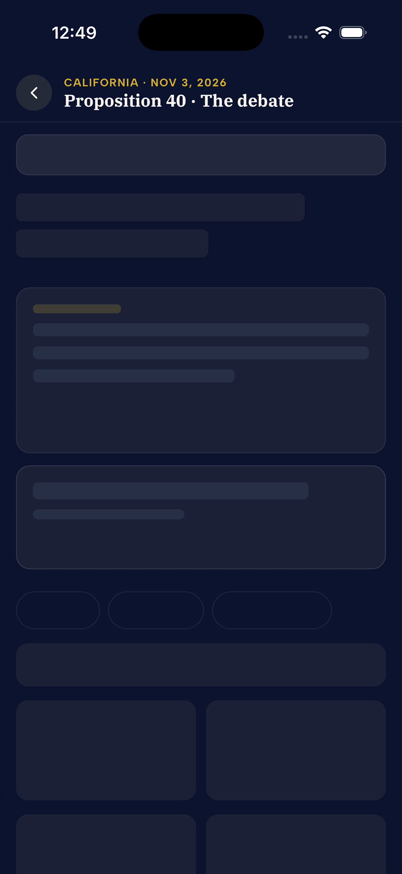
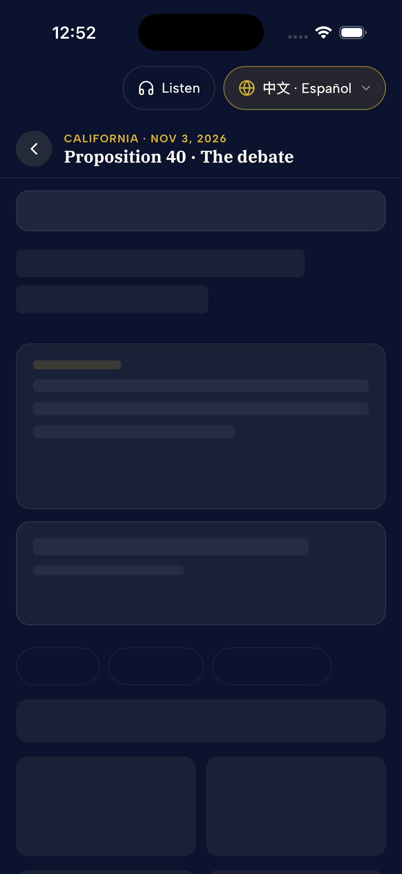
Record integrated ballot loading verification

diff --git a/docs/evidence/measure-loading/README.md b/docs/evidence/measure-loading/README.md
@@ -8,8 +8,13 @@ Captured on October 17, 2026 in the Expo development build on an isolated iPhone
 
 The header stays visible while the WebView mounts behind the native skeleton. The body is revealed after stylesheet loading, font layout, and a painted frame. This is an atomic reader reveal, not streaming per-card data. Placeholders reserve typical summary and featured-question heights; content-dependent heights can still differ.
 
-The recording includes iOS's rounded push transition. A 60 fps corner-pixel comparison found white corners in 10 of 104 frames before setting the navigation container background; the final capture had none in 87 frames. The GIF is a 30 fps derivative of that capture. Back navigation returned to the guide.
+The recording includes iOS's rounded push transition. A 60 fps corner-pixel comparison found white corners in 10 of 104 frames before setting the navigation container background; the final capture had none in 87 frames. The GIF is a 30 fps recording of the rebased reader with language/listening controls. Back navigation returned to the guide.
 
 An actual-engine browser harness separately exercised an eight-second stylesheet delay and an immediate stylesheet failure. The delayed case revealed stable system typography after about 2.1 seconds, and the stale mount never signaled readiness. Unit coverage checks stylesheet/font/paint sequencing, cancellation, and never-settling stylesheet and font promises.
 
 Android runtime and VoiceOver focus transfer were not tested. Native accessibility inspection showed Back, the measure identity, and the busy loading indicator while the WebView was covered.
+
+The rebased integration also opens Proposition 39 for the first time with Chinese selected. The translation-pending notice is present throughout loading and reveal, so the toolbar and header retain their positions. The body is still English while translation is pending; this check does not claim translated content is available.
+
+![Chinese preference, loading](chinese-loading.png)
+![Chinese preference, reader ready with translation pending](chinese-ready.png)
